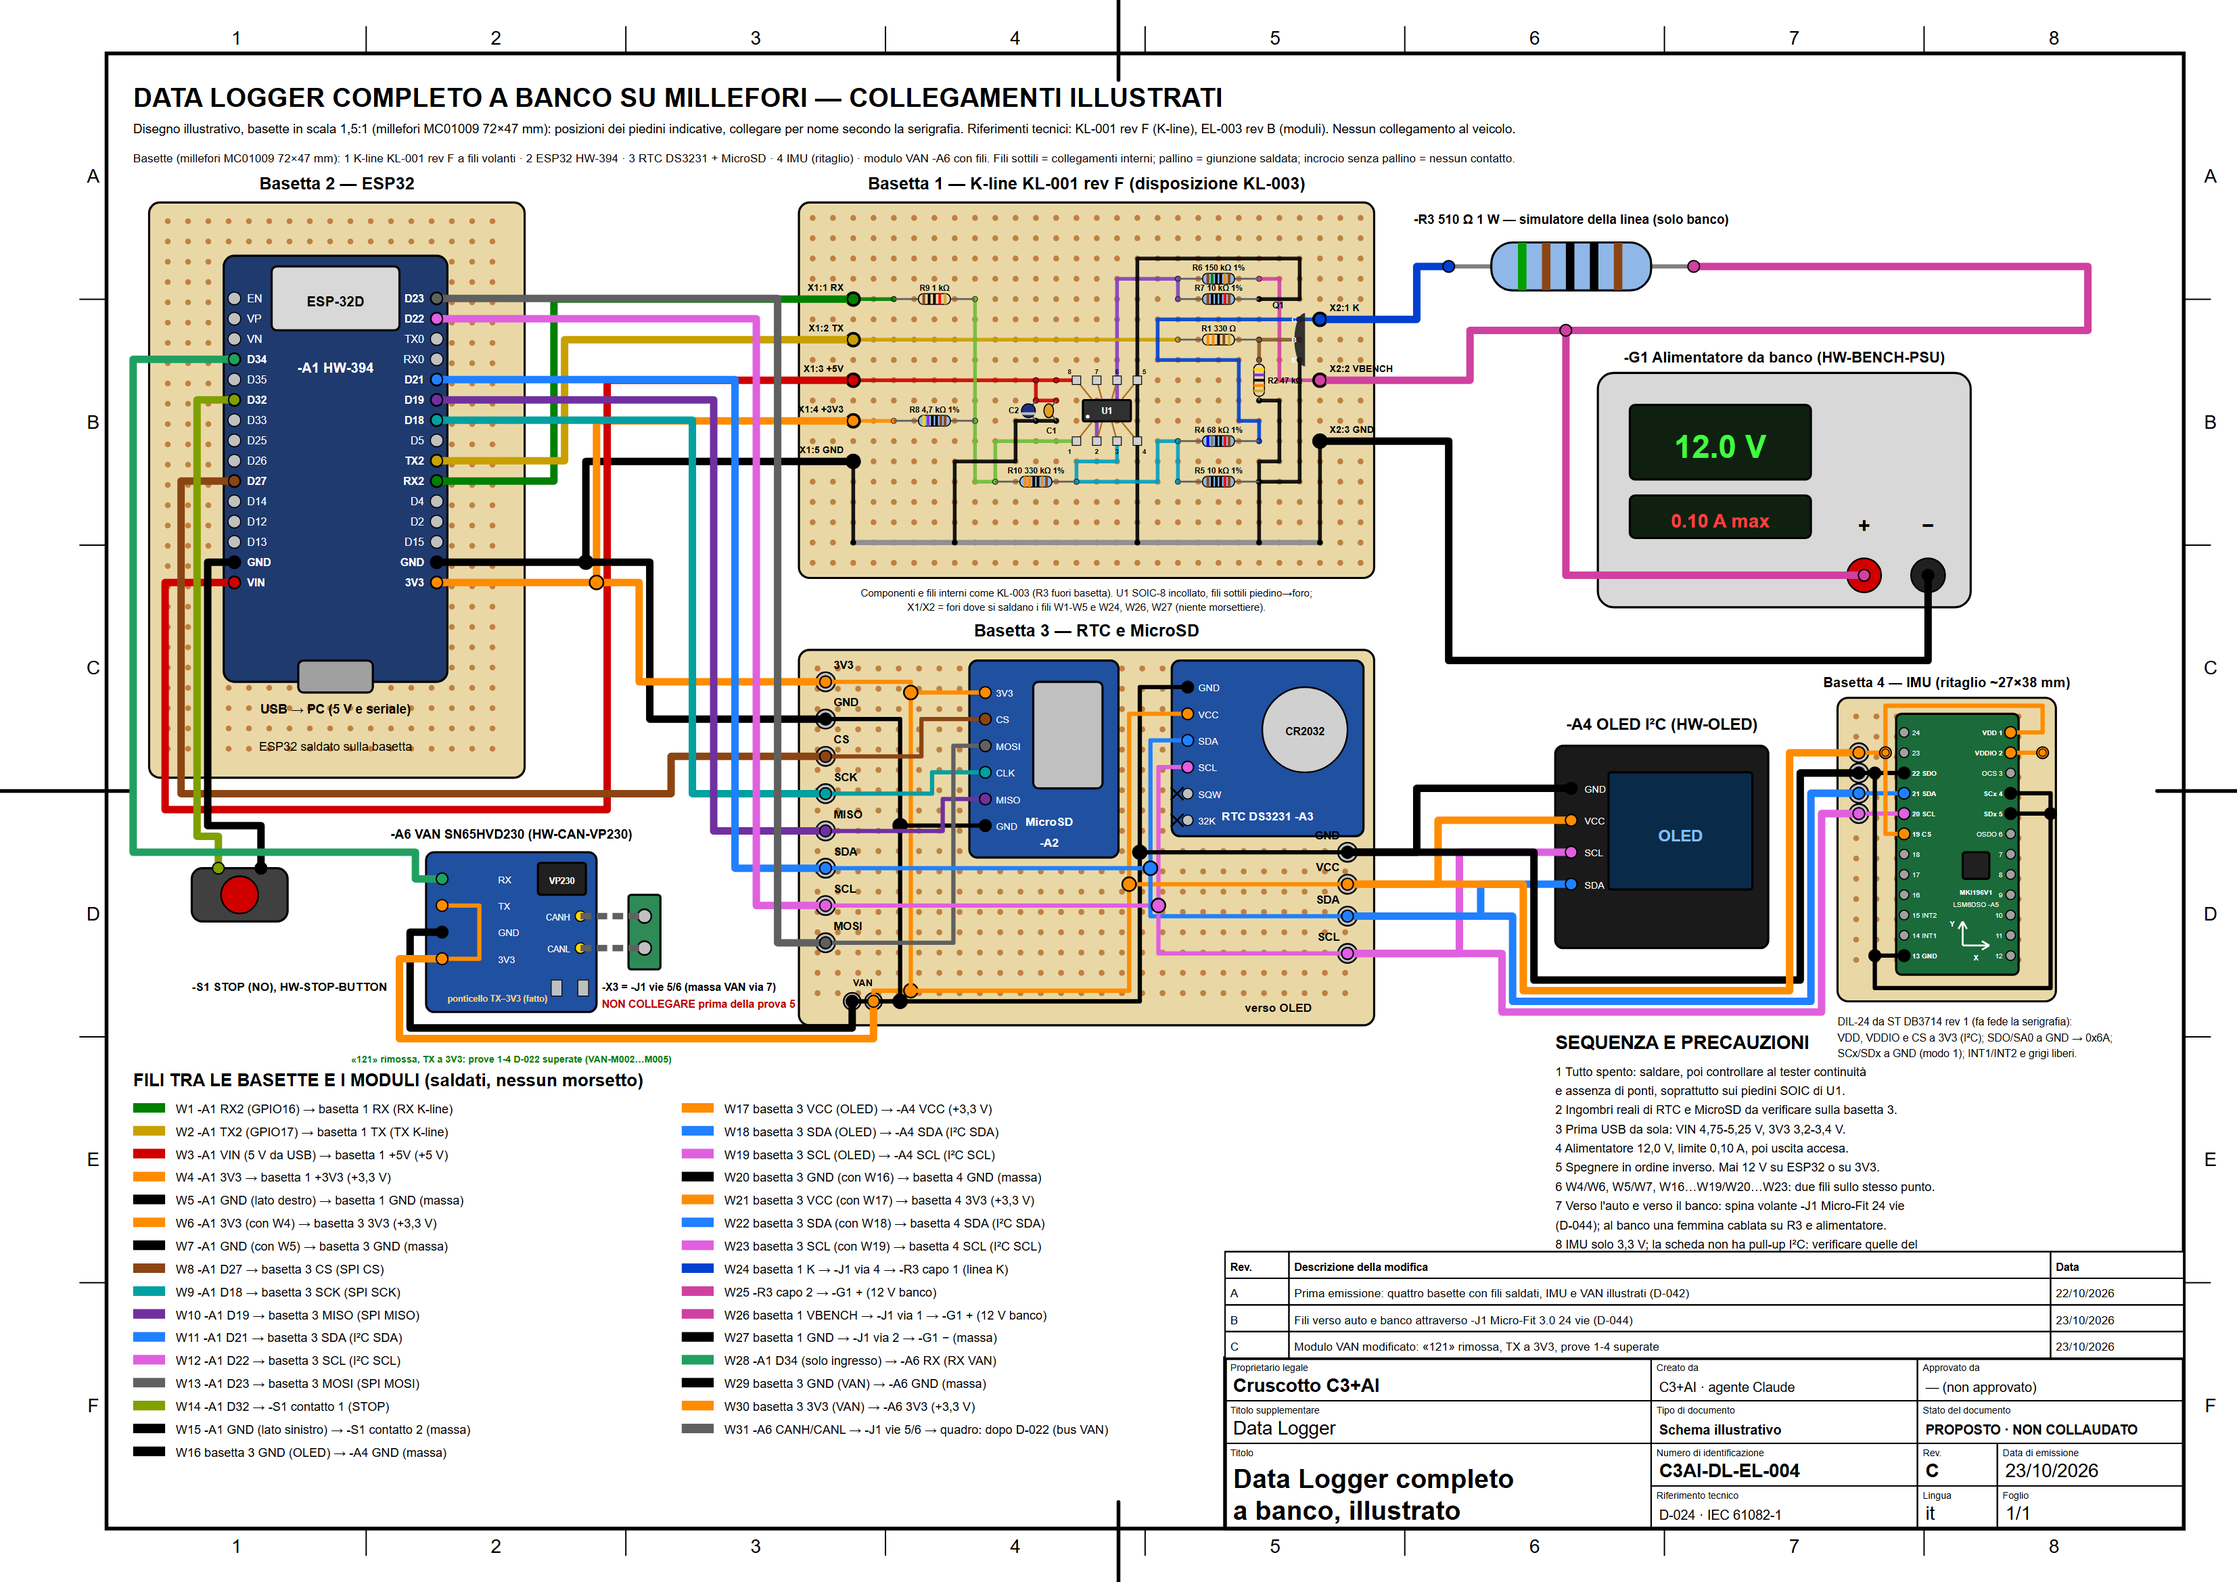
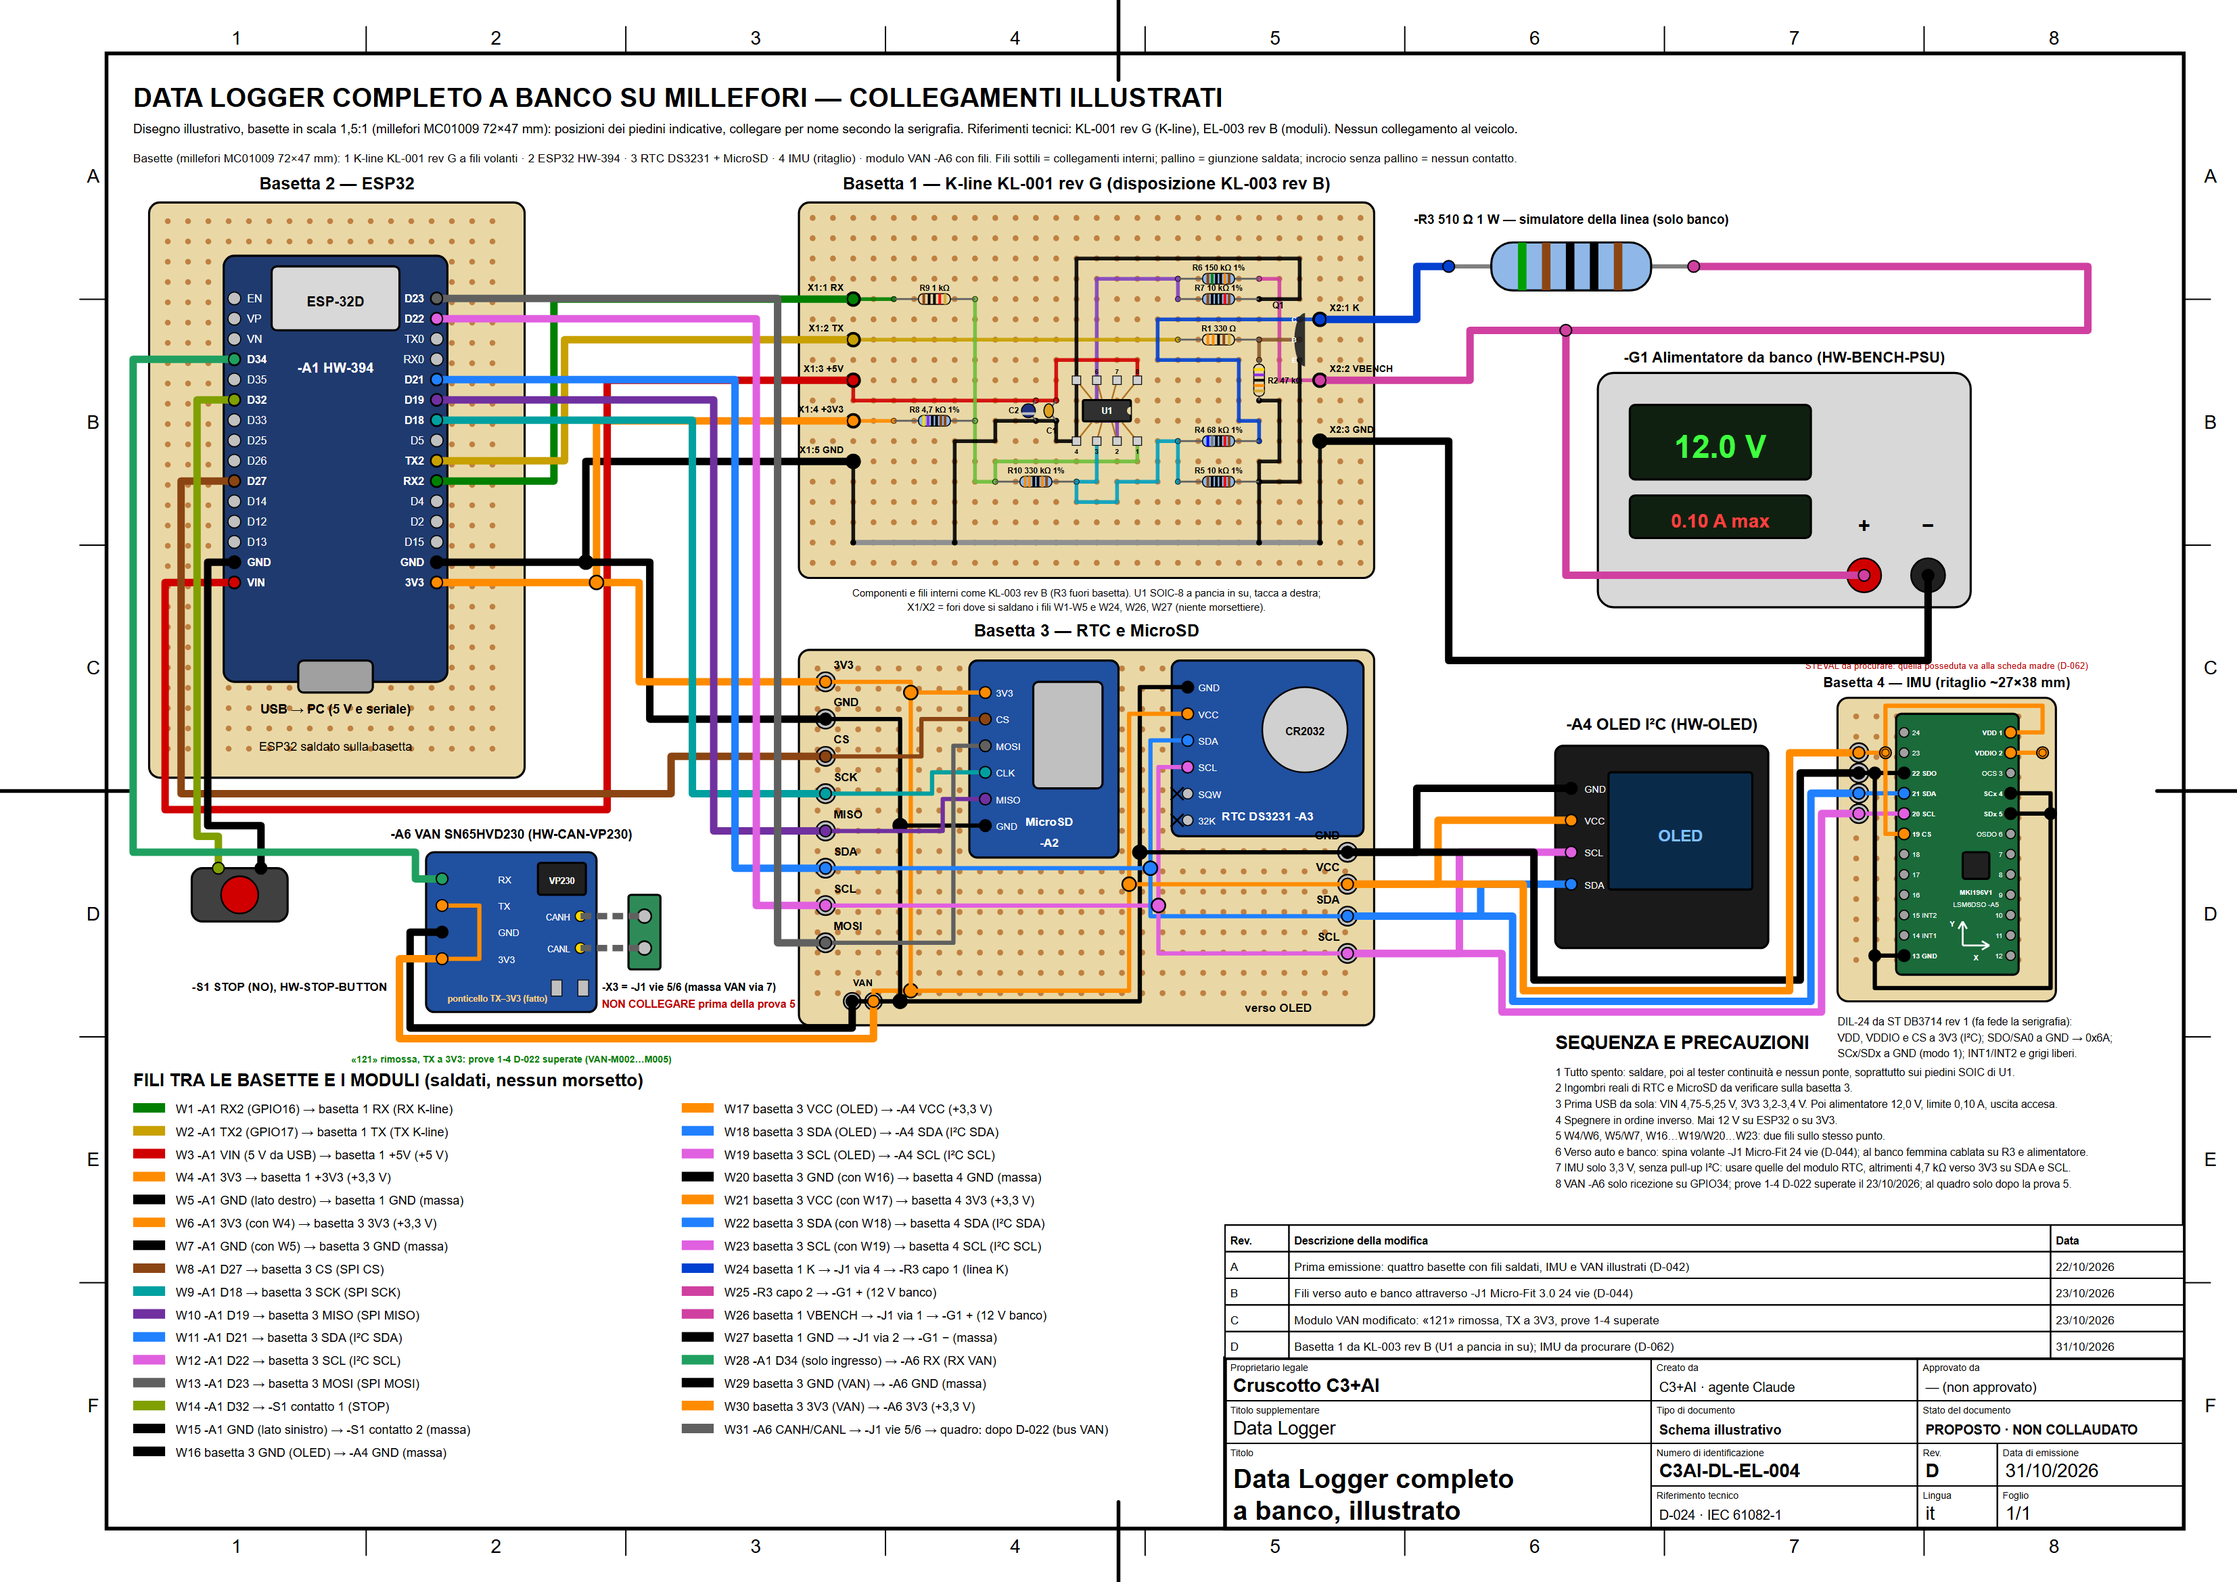
docs: EL-004 rev D e KL-002 rev B allineate a KL-003 rev B e D-062

diff --git a/tools/genera-logger-millefori-illustrato.py b/tools/genera-logger-millefori-illustrato.py
@@ -81,7 +81,7 @@ d = Sheet('C3AI-DL-EL-004 rev C — Data Logger completo a banco, collegamenti i
 d.frame()
 d.text(25, 20, 'DATA LOGGER COMPLETO A BANCO SU MILLEFORI — COLLEGAMENTI ILLUSTRATI', 5, bold=True)
 d.text(25, 25, 'Disegno illustrativo, basette in scala 1,5:1 (millefori MC01009 72×47 mm): posizioni dei piedini indicative, collegare '
-               'per nome secondo la serigrafia. Riferimenti tecnici: KL-001 rev F (K-line), EL-003 rev B (moduli). Nessun collegamento al veicolo.', 2.4)
+               'per nome secondo la serigrafia. Riferimenti tecnici: KL-001 rev G (K-line), EL-003 rev B (moduli). Nessun collegamento al veicolo.', 2.4)
 
 # --- Basetta 2: ESP32 HW-394 ---------------------------------------------------------
 perfboard(d, 28, 38, 70.5, 108, 'Basetta 2 — ESP32')
@@ -109,7 +109,7 @@ label(d, 63, 141, 'ESP32 saldato sulla basetta', 2.3)
 # --- Basetta 1: modulo K-line, disposizione e fili di KL-003 ------------------------
 B1 = (150, 38, 108, 70.5)
 box(d, *B1, '#e9d8a6', rx=2)
-label(d, B1[0] + B1[2] / 2, B1[1] - 2.5, 'Basetta 1 — K-line KL-001 rev F (disposizione KL-003)', 3.2, bold=True)
+label(d, B1[0] + B1[2] / 2, B1[1] - 2.5, 'Basetta 1 — K-line KL-001 rev G (disposizione KL-003 rev B)', 3.2, bold=True)
 KX0, KY0, KS = 160.2, 44.7, 3.81                 # foro A1 e passo 2,54 mm in scala 1,5:1
 assert KL.verify() > 0                          # reti di KL-003 = netlist KL-001 rev F
 
@@ -147,18 +147,18 @@ for ref, (ohms, precise) in KL.RES.items():
             d.raw(f'<rect x="{mx - w / 2:.2f}" y="{my + off - 0.25:.2f}" width="{w}" height="0.5" fill="{col}"/>')
     tx, ty = (mx, my - 1.6) if horizontal else (mx + 1.6, my + 0.6)
     label(d, tx, ty, f'{ref} {KL.RES_LABEL[ref]}', 1.5, 'middle' if horizontal else 'start', True)
-# U1 LM2903B SOIC-8 incollato al centro dei suoi 8 fori, fili sottili dai piedini ai fori.
-(xa, ya), (xb, yb) = KP(KL.COMP['U1']['8'][0]), KP(KL.COMP['U1']['4'][0])
-cx, cy = (xa + xb) / 2, (ya + yb) / 2
+# U1 LM2903B SOIC-8 a pancia in su (tacca a destra) tra i suoi 8 spezzoni, come in KL-003 rev B:
+# ogni spezzone sta di fronte al proprio piedino, fili corti e dritti.
+us = [KP(h) for h, _ in KL.COMP['U1'].values()]
+cx, cy = sum(x for x, _ in us) / len(us), sum(y for _, y in us) / len(us)
 for pin, (hl, _) in KL.COMP['U1'].items():
     x, y = KP(hl)
-    px_ = cx + (int(pin) - 2.5 if int(pin) <= 4 else 6.5 - int(pin)) * 1.9
-    py_ = cy + (2.2 if int(pin) <= 4 else -2.2)
+    px_, py_ = cx + (x - cx) * 0.5, cy + (2.2 if y > cy else -2.2)
     d.raw(f'<line x1="{px_:.2f}" y1="{py_:.2f}" x2="{x:.2f}" y2="{y:.2f}" stroke="#b07020" stroke-width="0.3"/>')
     d.raw(f'<rect x="{x - 0.8:.2f}" y="{y - 0.8:.2f}" width="1.6" height="1.6" fill="#d0d0d0" stroke="#000" stroke-width="0.15"/>')
-    label(d, x + (1.3 if int(pin) in (4, 5) else -1.3 if int(pin) in (1, 8) else 0), y + (2.4 if int(pin) <= 4 else -1.2), pin, 1.3, 'middle', True)
+    label(d, x, y + (2.4 if y > cy else -1.2), pin, 1.3, 'middle', True)
 box(d, cx - 4.5, cy - 2, 9, 4, '#303030', rx=0.3)
-d.raw(f'<circle cx="{cx - 3.6:.2f}" cy="{cy + 1.1:.2f}" r="0.35" fill="#ffffff"/>')
+d.raw(f'<path d="M{cx + 4.5:.2f} {cy - 0.8:.2f} a0.8 0.8 0 0 0 0 1.6" fill="#e9d8a6" stroke="#000" stroke-width="0.1"/>')
 label(d, cx, cy + 0.6, 'U1', 1.6, bold=True, color='#ffffff')
 for ref, shape in (('C1', 'disc'), ('C2', 'elec')):
     hl = list(KL.COMP[ref].values())
@@ -182,7 +182,7 @@ for pin, (h, _) in KL.COMP['Q1'].items():
     x, y = KP(h)
     label(d, x - 0.6, y + 0.5, pin, 1.3, 'end', True, '#ffffff')
 label(d, xq - 3, hs[0][1] - 2, 'Q1', 1.6, 'end', True)
-label(d, 204, 112, 'Componenti e fili interni come KL-003 (R3 fuori basetta). U1 SOIC-8 incollato, fili sottili piedino→foro;', 1.9)
+label(d, 204, 112, 'Componenti e fili interni come KL-003 rev B (R3 fuori basetta). U1 SOIC-8 a pancia in su, tacca a destra;', 1.9)
 label(d, 204, 114.6, 'X1/X2 = fori dove si saldano i fili W1-W5 e W24, W26, W27 (niente morsettiere).', 1.9)
 
 
@@ -269,6 +269,7 @@ for i, n in enumerate(['GND', 'VCC', 'SCL', 'SDA']):
 # Modo 1 (solo I²C): SDx e SCx a VDDIO o GND secondo ST, OCS e OSDO liberi (da riscontrare sul datasheet).
 perfboard(d, 345, 131, 41, 57, '')
 label(d, 365.5, 129, 'Basetta 4 — IMU (ritaglio ~27×38 mm)', 2.6, bold=True)
+label(d, 365.5, 125.6, 'STEVAL da procurare: quella posseduta va alla scheda madre (D-062)', 1.7, color='#c00000')
 box(d, 356, 134, 23, 49, '#1a6a3a', rx=1)
 DIL_L = [24, 23, 22, 21, 20, 19, 18, 17, 16, 15, 14, 13]
 DIL_R = list(range(1, 13))
@@ -424,29 +425,25 @@ for i, (w, net, a, b) in enumerate(rows):
     x, y = TX0 + col * 103, TY0 + 1 + r * 4.3
     d.raw(f'<line x1="{x}" y1="{y - 1}" x2="{x + 6}" y2="{y - 1}" stroke="{C[net]}" stroke-width="1.8"/>')
     d.text(x + 8, y, f'{w}  {a} → {b}  ({NAMES[net]})', 2.3)
-d.text(25, 30.5, 'Basette (millefori MC01009 72×47 mm): 1 K-line KL-001 rev F a fili volanti · 2 ESP32 HW-394 · 3 RTC DS3231 + MicroSD · '
+d.text(25, 30.5, 'Basette (millefori MC01009 72×47 mm): 1 K-line KL-001 rev G a fili volanti · 2 ESP32 HW-394 · 3 RTC DS3231 + MicroSD · '
                '4 IMU (ritaglio) · modulo VAN -A6 con fili. Fili sottili = collegamenti interni; pallino = giunzione saldata; incrocio senza pallino = nessun contatto.', 2.2)
 d.notes(292, 197, 'SEQUENZA E PRECAUZIONI', [
-    '1 Tutto spento: saldare, poi controllare al tester continuità',
-    '  e assenza di ponti, soprattutto sui piedini SOIC di U1.',
+    '1 Tutto spento: saldare, poi al tester continuità e nessun ponte, soprattutto sui piedini SOIC di U1.',
     '2 Ingombri reali di RTC e MicroSD da verificare sulla basetta 3.',
-    '3 Prima USB da sola: VIN 4,75-5,25 V, 3V3 3,2-3,4 V.',
-    '4 Alimentatore 12,0 V, limite 0,10 A, poi uscita accesa.',
-    '5 Spegnere in ordine inverso. Mai 12 V su ESP32 o su 3V3.',
-    '6 W4/W6, W5/W7, W16…W19/W20…W23: due fili sullo stesso punto.',
-    '7 Verso l\'auto e verso il banco: spina volante -J1 Micro-Fit 24 vie',
-    '  (D-044); al banco una femmina cablata su R3 e alimentatore.',
-    '8 IMU solo 3,3 V; la scheda non ha pull-up I²C: verificare quelle del',
-    '  modulo RTC, altrimenti 4,7 kΩ verso 3V3 su SDA e SCL.',
-    '9 VAN -A6: solo ricezione su GPIO34; prove 1-4 D-022 superate a banco',
-    '  il 23/10/2026; al quadro solo dopo la prova 5 (punto sul veicolo).',
-], h=2.3, step=3.6)
+    '3 Prima USB da sola: VIN 4,75-5,25 V, 3V3 3,2-3,4 V. Poi alimentatore 12,0 V, limite 0,10 A, uscita accesa.',
+    '4 Spegnere in ordine inverso. Mai 12 V su ESP32 o su 3V3.',
+    '5 W4/W6, W5/W7, W16…W19/W20…W23: due fili sullo stesso punto.',
+    '6 Verso auto e banco: spina volante -J1 Micro-Fit 24 vie (D-044); al banco femmina cablata su R3 e alimentatore.',
+    '7 IMU solo 3,3 V, senza pull-up I²C: usare quelle del modulo RTC, altrimenti 4,7 kΩ verso 3V3 su SDA e SCL.',
+    '8 VAN -A6 solo ricezione su GPIO34; prove 1-4 D-022 superate il 23/10/2026; al quadro solo dopo la prova 5.',
+], h=2.0, step=3.0)
 d.title_block(title=['Data Logger completo', 'a banco, illustrato'], subtitle='Data Logger',
               doc_type='Schema illustrativo', status='PROPOSTO · NON COLLAUDATO',
-              code='C3AI-DL-EL-004', rev='C', date='23/10/2026', sheet='1/1',
+              code='C3AI-DL-EL-004', rev='D', date='31/10/2026', sheet='1/1',
               revisions=[('A', 'Prima emissione: quattro basette con fili saldati, IMU e VAN illustrati (D-042)', '22/10/2026'),
                          ('B', 'Fili verso auto e banco attraverso -J1 Micro-Fit 3.0 24 vie (D-044)', '23/10/2026'),
-                         ('C', 'Modulo VAN modificato: «121» rimossa, TX a 3V3, prove 1-4 superate', '23/10/2026')])
+                         ('C', 'Modulo VAN modificato: «121» rimossa, TX a 3V3, prove 1-4 superate', '23/10/2026'),
+                         ('D', 'Basetta 1 da KL-003 rev B (U1 a pancia in su); IMU da procurare (D-062)', '31/10/2026')])
 out = ROOT / 'disegni/sorgenti/DL-EL-004_logger-completo-millefori.svg'
 out.write_text(d.svg('Collegamenti illustrati del Data Logger completo a banco su millefori; posizioni indicative.'),
                encoding='utf-8')

diff --git a/tools/genera-kline-illustrato.py b/tools/genera-kline-illustrato.py
@@ -36,7 +36,7 @@ d = Sheet('C3AI-DL-KL-002 rev A — K-line, collegamenti illustrati della prova 
 d.frame()
 d.text(25, 20, 'PROVA A BANCO DEL MODULO K-LINE — COLLEGAMENTI ILLUSTRATI', 5, bold=True)
 d.text(25, 25, 'Disegno illustrativo: posizioni dei piedini indicative, usare sempre la serigrafia dei moduli. Riferimento tecnico: '
-               'schema KL-001 rev F; montaggio: KL-003. Nessun collegamento al veicolo.', 2.5)
+               'schema KL-001 rev G; montaggio: KL-003 rev B. -X1/-X2 = fori dove si saldano i fili (niente morsettiere). Nessun collegamento al veicolo.', 2.5)
 
 # --- ESP32 HW-394 ---------------------------------------------------------------
 ex, ey, ew, eh = 30, 50, 62, 120
@@ -71,20 +71,20 @@ for i in range(16):
 box(d, mx + 38, my + 20, 18, 14, '#303030', rx=1)
 label(d, mx + 47, my + 28, 'U1', 2.6, bold=True, color='#ffffff')
 d.raw(f'<path d="M{mx + 70} {my + 16} a4 4 0 0 1 0 10 z" fill="#202020"/>')
-label(d, mx + mw / 2, my - 3, '-A2  Modulo K-line KL-001 rev F (montaggio KL-003)', 3.4, bold=True)
+label(d, mx + mw / 2, my - 3, '-A2  Modulo K-line KL-001 rev G (montaggio KL-003 rev B)', 3.4, bold=True)
 x1 = {}
-box(d, mx - 6, my + 6, 8, 50, '#2e8b57', rx=1)
+d.raw(f'<rect x="{mx - 6}" y="{my + 6}" width="8" height="50" fill="none" stroke="#000" stroke-width="0.3" stroke-dasharray="1.5 1"/>')
 for i, (n, net) in enumerate([('1 RX', 'RX_3V3'), ('2 TX', 'TX_INV'), ('3 +5V', '+5V'), ('4 +3V3', '+3V3'), ('5 GND', 'GND')]):
     y = my + 11 + i * 10
-    d.raw(f'<circle cx="{mx - 2:.2f}" cy="{y:.2f}" r="2.2" fill="#c0c0c0" stroke="#000" stroke-width="0.3"/>')
+    d.raw(f'<circle cx="{mx - 2:.2f}" cy="{y:.2f}" r="1.8" fill="#b87333" stroke="#000" stroke-width="0.3"/>')
     label(d, mx + 3, y + 1, n, 2.4, 'start', True)
     x1[net] = (mx - 2, y)
 label(d, mx - 10, my + 4, '-X1', 3, 'end', True)
 x2 = {}
-box(d, mx + mw - 2, my + 16, 8, 30, '#2e8b57', rx=1)
+d.raw(f'<rect x="{mx + mw - 2}" y="{my + 16}" width="8" height="30" fill="none" stroke="#000" stroke-width="0.3" stroke-dasharray="1.5 1"/>')
 for i, (n, net) in enumerate([('1 K', 'K'), ('2 VBENCH', 'VBENCH'), ('3 GND', 'GND')]):
     y = my + 21 + i * 10
-    d.raw(f'<circle cx="{mx + mw + 2:.2f}" cy="{y:.2f}" r="2.2" fill="#c0c0c0" stroke="#000" stroke-width="0.3"/>')
+    d.raw(f'<circle cx="{mx + mw + 2:.2f}" cy="{y:.2f}" r="1.8" fill="#b87333" stroke="#000" stroke-width="0.3"/>')
     label(d, mx + mw - 3, y + 1, n, 2.4, 'end', True)
     x2[net] = (mx + mw + 2, y)
 label(d, mx + mw + 8, my + 14, '-X2', 3, 'start', True)
@@ -150,8 +150,9 @@ d.notes(200, 212, 'SEQUENZA E PRECAUZIONI', [
 ], h=2.5, step=4.0)
 d.title_block(title=['K-line, banco', 'illustrato'], subtitle='Data Logger',
               doc_type='Schema illustrativo', status='PROPOSTO · NON COLLAUDATO',
-              code='C3AI-DL-KL-002', rev='A', date='22/10/2026', sheet='1/1',
-              revisions=[('A', 'Prima emissione: moduli illustrati a complemento di KL-001 rev F', '22/10/2026')])
+              code='C3AI-DL-KL-002', rev='B', date='31/10/2026', sheet='1/1',
+              revisions=[('A', 'Prima emissione: moduli illustrati a complemento di KL-001 rev F', '22/10/2026'),
+                         ('B', '-X1/-X2 come fori per fili saldati, niente morsettiere (D-042, D-062)', '31/10/2026')])
 out = ROOT / 'disegni/sorgenti/DL-KL-002_kline-collegamenti-illustrati.svg'
 out.write_text(d.svg('Collegamenti illustrati della prova a banco del modulo K-line; posizioni dei piedini indicative.'),
                encoding='utf-8')

diff --git a/data-logger/docs/kline-autocostruita.md b/data-logger/docs/kline-autocostruita.md
@@ -183,12 +183,12 @@ Richiesta dell'utente: oltre allo schema tecnico, una rappresentazione con i mod
 disegnati e la disposizione su millefori con i collegamenti da componente a componente.
 
 - [Collegamenti illustrati della prova a banco](../../disegni/DL-KL-002_kline-collegamenti-illustrati.png),
-  C3AI-DL-KL-002 rev A ([SVG](../../disegni/sorgenti/DL-KL-002_kline-collegamenti-illustrati.svg), generatore
+  C3AI-DL-KL-002 rev B ([SVG](../../disegni/sorgenti/DL-KL-002_kline-collegamenti-illustrati.svg), generatore
   `tools/genera-kline-illustrato.py`): ESP32 HW-394, modulo, alimentatore da banco
   (HW-BENCH-PSU) e R3 del simulatore; tabella dei fili W1-W9 e sequenza di accensione.
   Piedini dell'ESP32 in posizione indicativa: fa fede la serigrafia.
 - [Data Logger completo a banco su millefori](../../disegni/DL-EL-004_logger-completo-millefori.png),
-  C3AI-DL-EL-004 rev A ([SVG](../../disegni/sorgenti/DL-EL-004_logger-completo-millefori.svg), generatore
+  C3AI-DL-EL-004 rev D ([SVG](../../disegni/sorgenti/DL-EL-004_logger-completo-millefori.svg), generatore
   `tools/genera-logger-millefori-illustrato.py`, D-042): K-line, ESP32, RTC + MicroSD su tre basette,
   IMU su un ritaglio, OLED, VAN (solo ricezione) e STOP, fili saldati W1-W31 senza morsetti. Proposta, non collaudata.
 - [Disposizione su millefori](../../disegni/DL-KL-003_kline-millefori.png), C3AI-DL-KL-003 rev B
